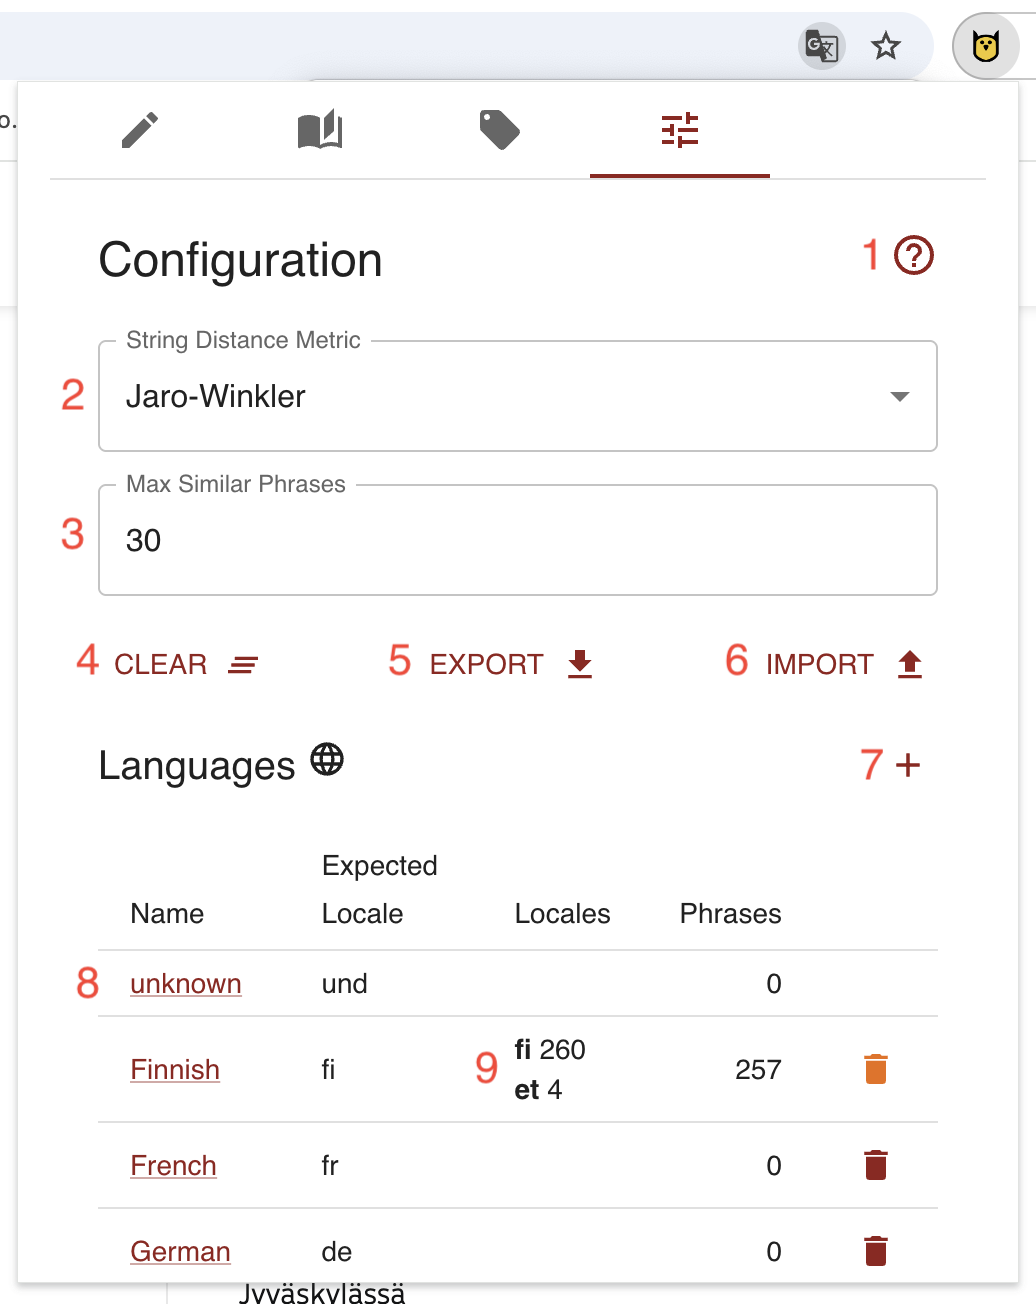
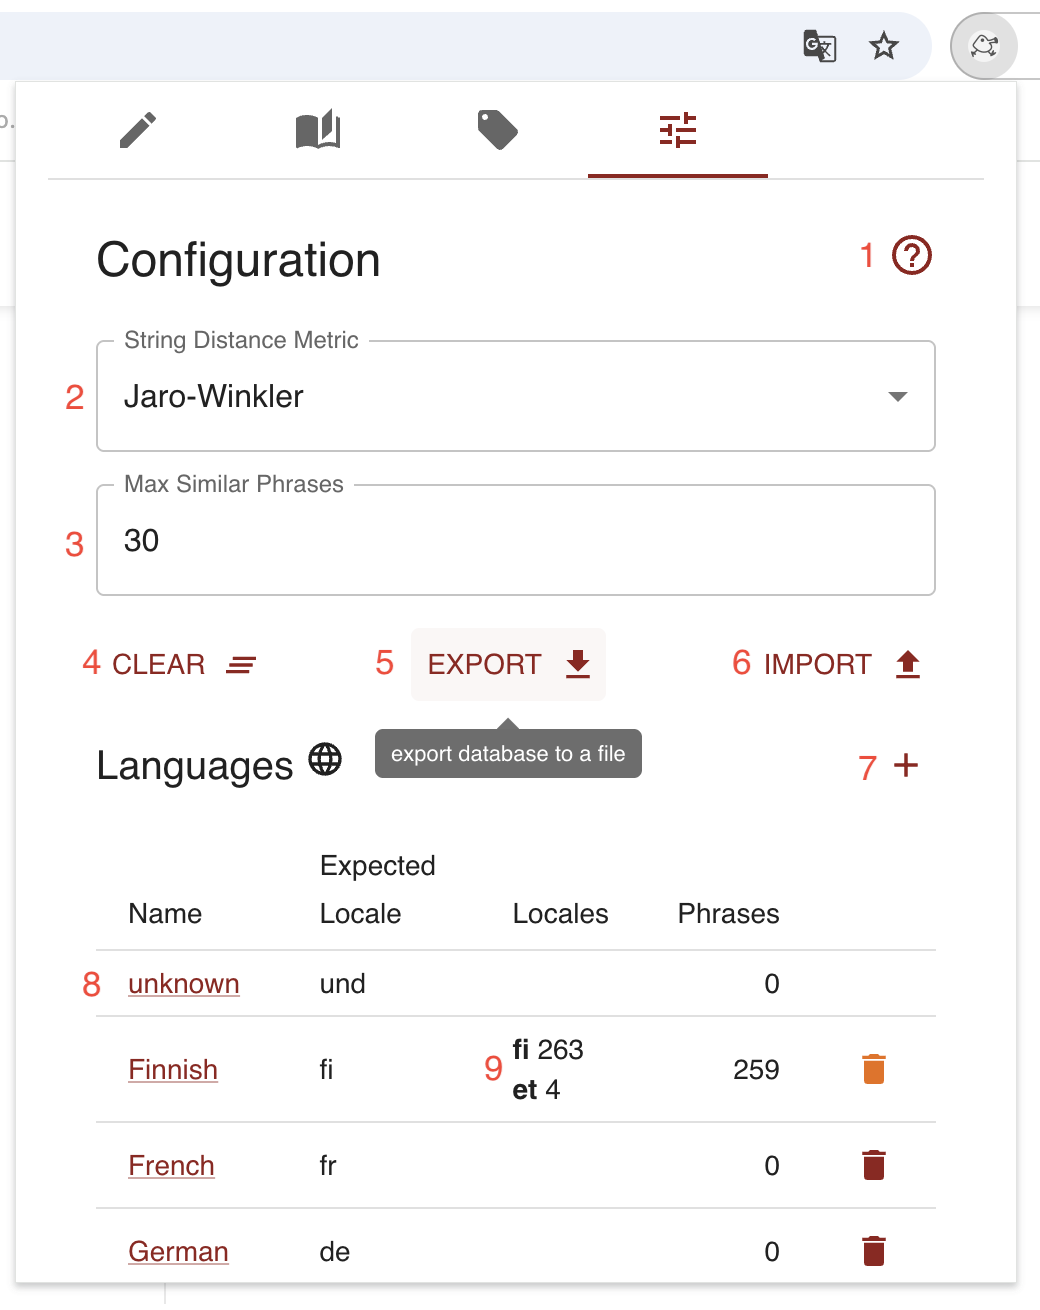
stubbed in acknowledgements; replaced all the images which showed the owl

diff --git a/docs/index.html b/docs/index.html
@@ -525,10 +525,14 @@
         <h5>citation note</h5>
         <p>
           Each citation has its own note in which you can record anything
-          interesting about the particular citation.
+          interesting about the particular citation. This is (11) in
+          <a href="#note-figure">the figure</a>.
         </p>
         <h5>citation tags</h5>
-        <p>Every citation also may have its own tags.</p>
+        <p>
+          Every citation also may have its own tags. This is (12) in
+          <a href="#note-figure">the figure</a>.
+        </p>
         <figure id="dictionary-figure">
           <img
             src="images/dictionary.png"
@@ -971,6 +975,17 @@ Import merges such a file into the current database. You may find this gives you
           <a href="#config-figure">the figure</a> you can see an instance of
           this: 4 notes on Finnish were guessed by Chrome to contain Estonian
           (et).
+        </p>
+        <h2>Acknowledgements</h2>
+        <p>
+          Though so far I'm the only person who has committed code to
+          Amanuensis, others have helped bring it to its current state and
+          deserve acknowledgement
+        </p>
+        <b>Martha Edwards</b>
+        <p>
+          Martha coached me through some confusion as I was learning
+          <a href="https://react.dev/">React</a> while writing this code.
         </p>
         <figure id="oofla-figure" style="max-width: 250px">
           <img
